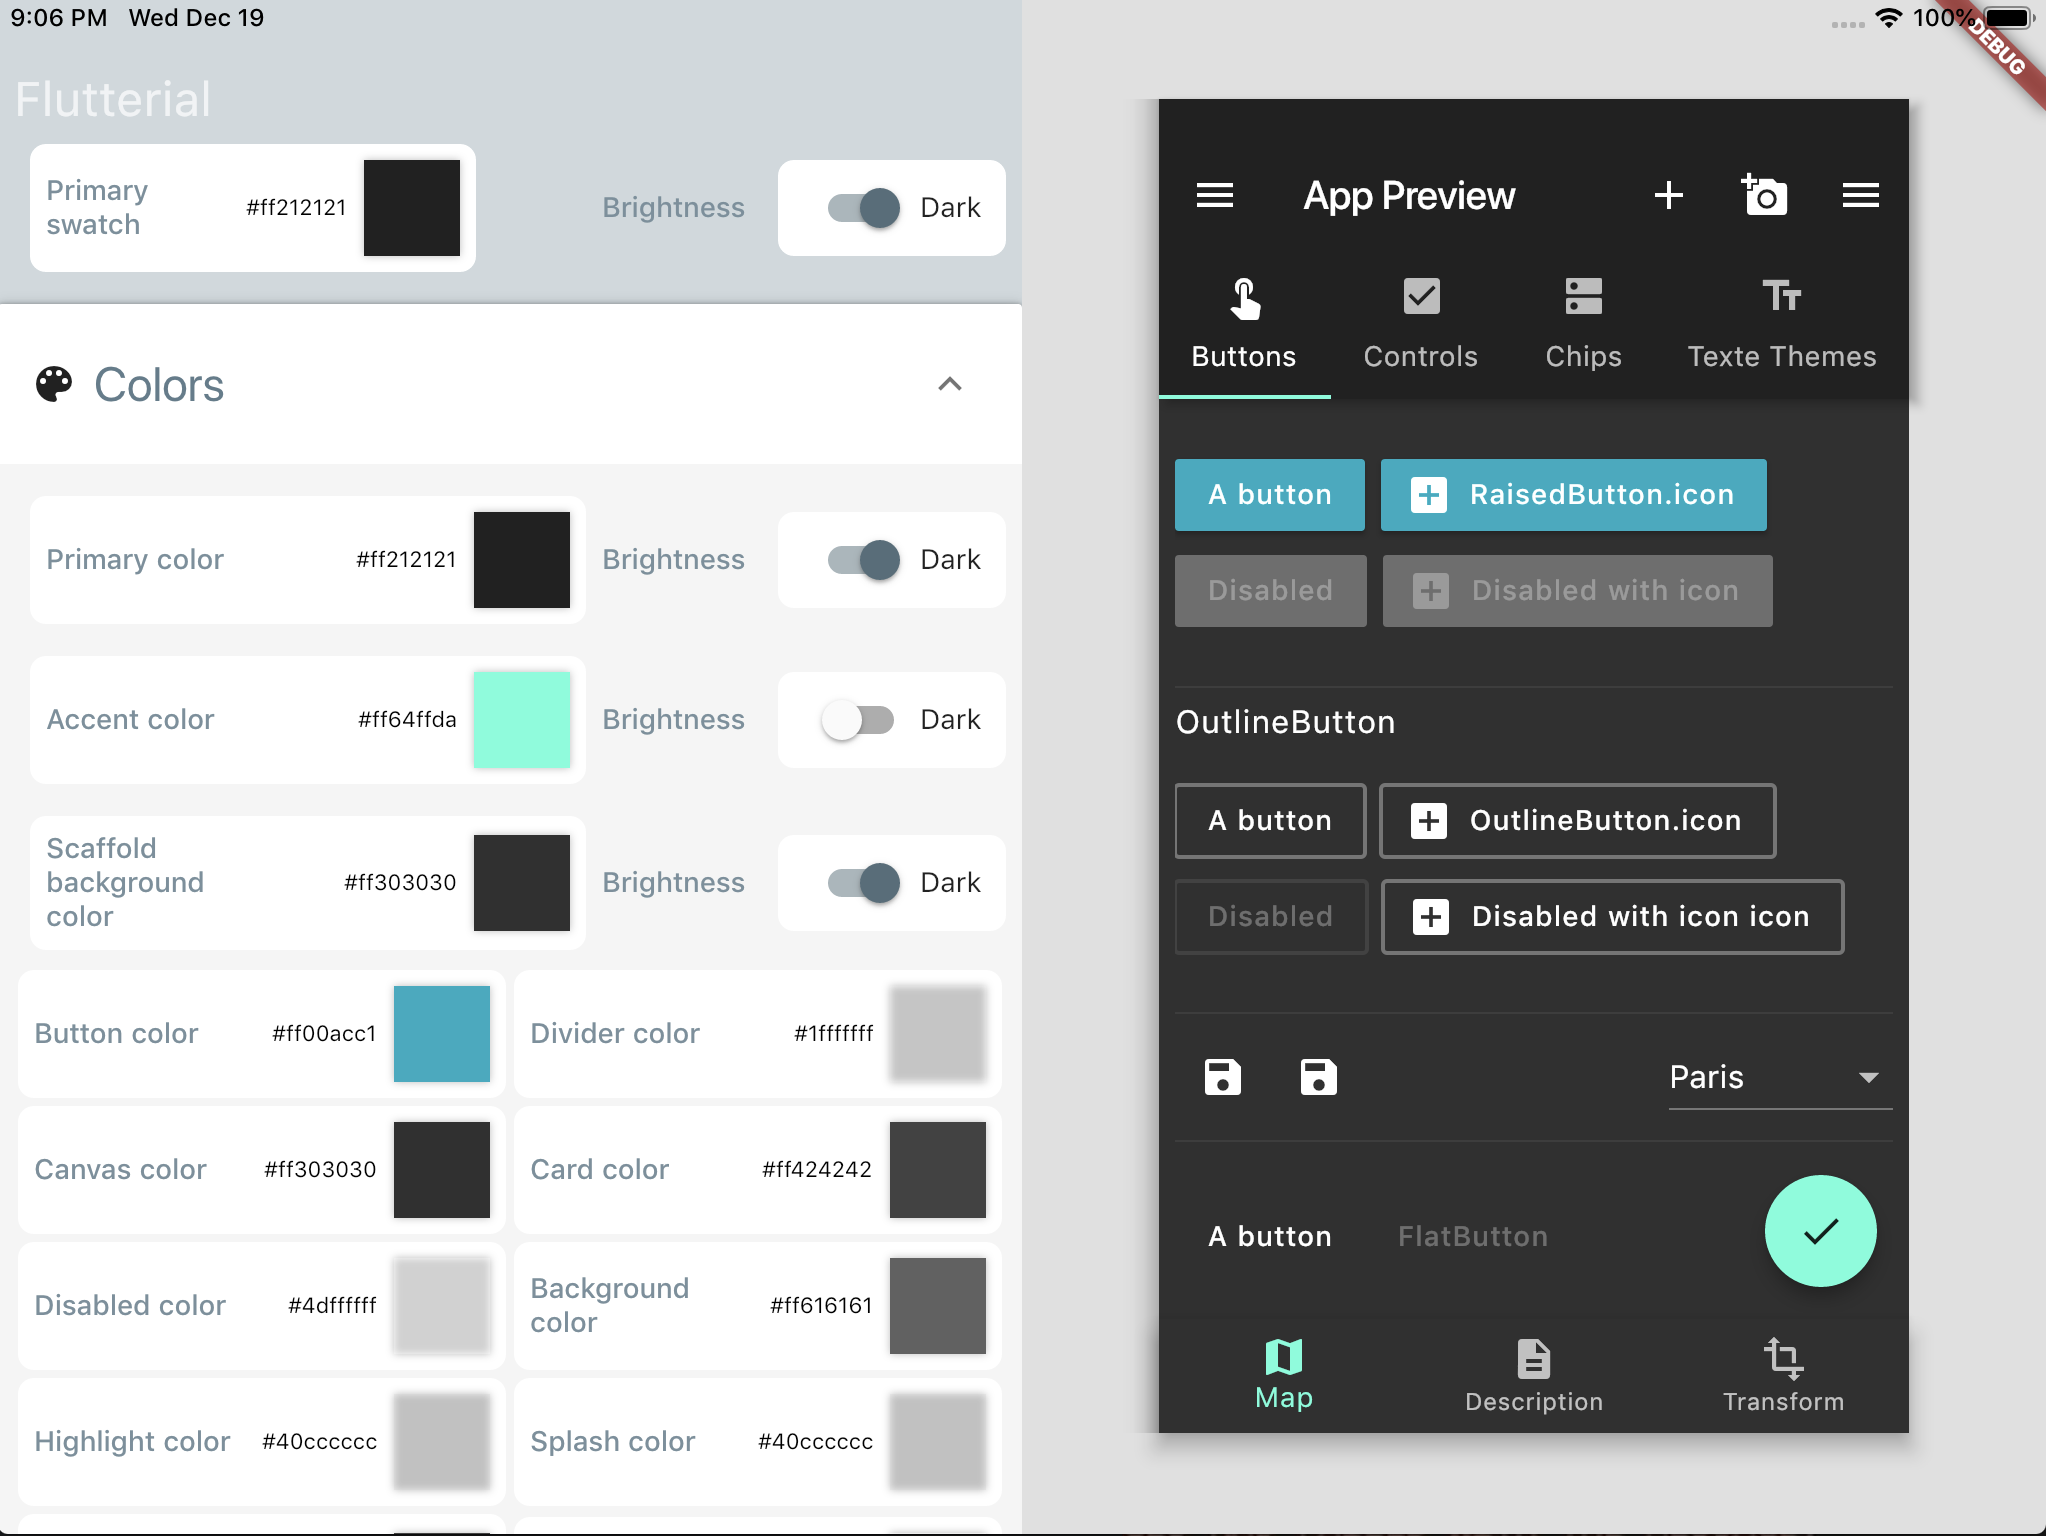
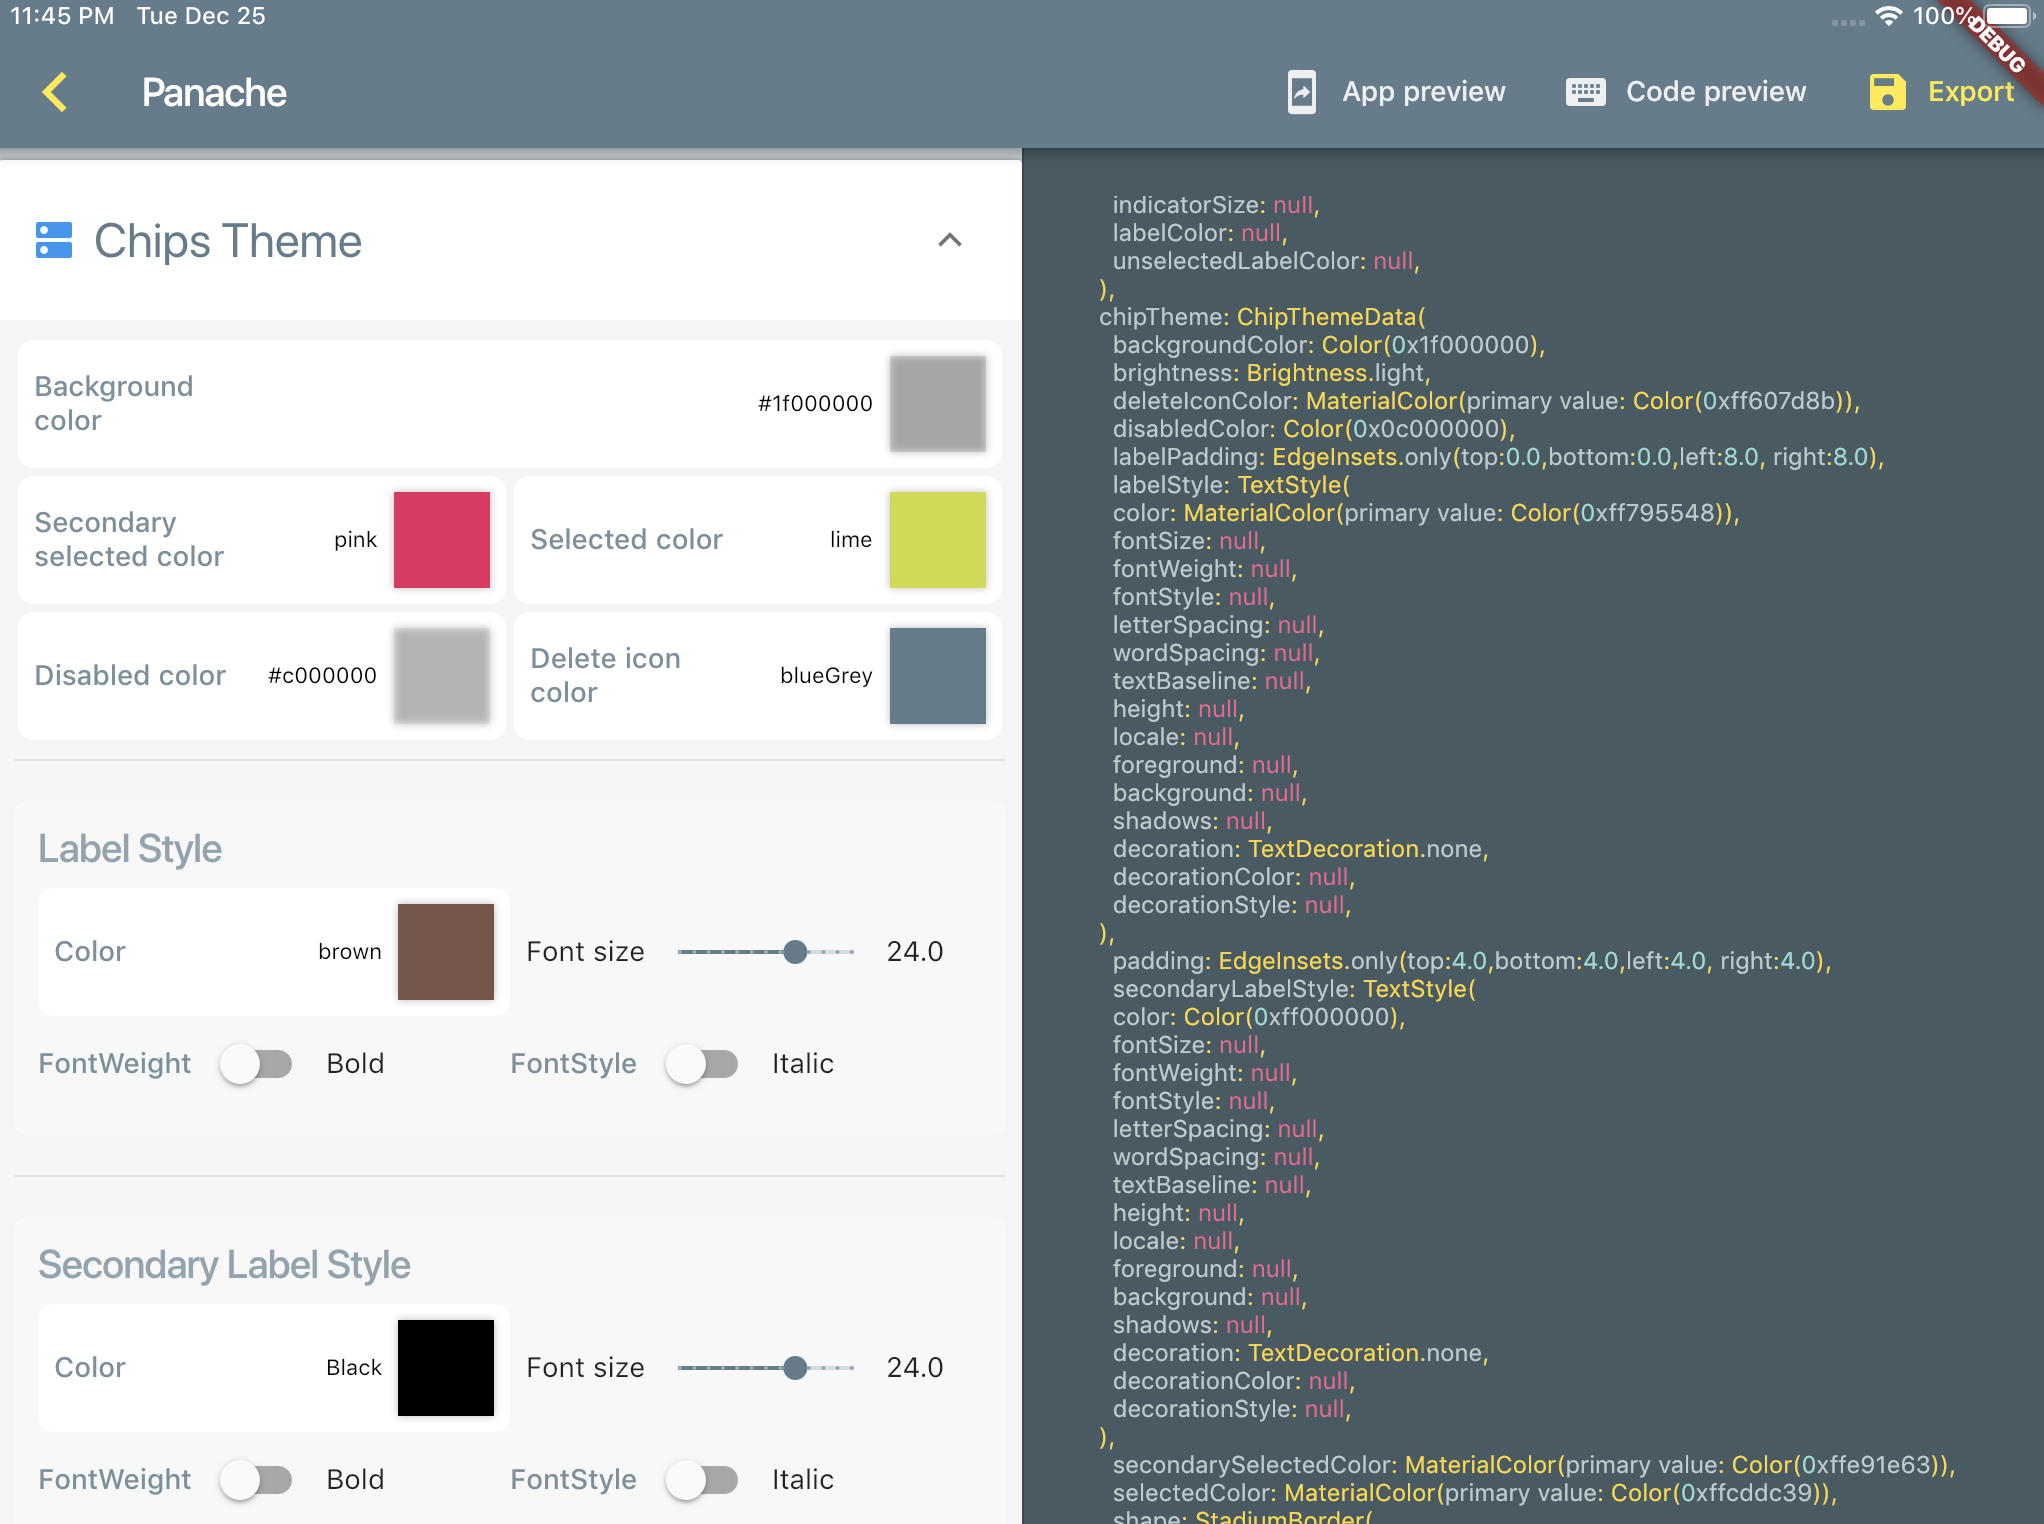
App theme + multiple fixes & refactoring

diff --git a/lib/flutterial.dart b/lib/flutterial.dart
@@ -22,20 +22,20 @@ class PanacheEditorScreenState extends State<PanacheEditorScreen> {
           title: Text('Panache'),
           actions: <Widget>[
             FlatButton.icon(
-              textColor: Colors.white,
+              textColor: Colors.blueGrey.shade50,
               icon: Icon(Icons.mobile_screen_share),
               label: Text('App preview'),
               onPressed: () => setState(() => showCode = false),
             ),
             FlatButton.icon(
-              textColor: Colors.white,
+              textColor: Colors.blueGrey.shade50,
               icon: Icon(Icons.keyboard),
               label: Text('Code preview'),
               onPressed: () => setState(() => showCode = true),
             ),
             FlatButton.icon(
                 onPressed: model.exportTheme,
-                textColor: Colors.white,
+                textColor: Colors.yellow,
                 icon: Icon(Icons.save),
                 label: Text('Export')),
           ],
@@ -44,7 +44,7 @@ class PanacheEditorScreenState extends State<PanacheEditorScreen> {
           crossAxisAlignment: CrossAxisAlignment.start,
           children: [
             Expanded(child: ThemeEditor(model: model)),
-            AppPreviewContainer(kIPhone6, showCode: showCode),
+            AppPreviewContainer(kIPhone5, showCode: showCode),
           ],
         ),
       );

diff --git a/lib/main.dart b/lib/main.dart
@@ -1,6 +1,7 @@
 import 'package:flutter/material.dart';
 import 'package:flutter/widgets.dart';
 import 'package:flutterial_components/flutterial_components.dart';
+import 'package:path_provider/path_provider.dart';
 import 'package:scoped_model/scoped_model.dart';
 
 import 'flutterial.dart';
@@ -18,13 +19,14 @@ final _flutterialTheme = ThemeData.localize(
       headline:
           Typography.blackCupertino.headline.copyWith(color: primarySwatch),
     ),
-    pageTransitionsTheme: PageTransitionsTheme(),
+    primaryIconTheme: IconThemeData.fallback().copyWith(color: Colors.yellow),
   ),
   Typography.blackCupertino,
 );
 
-void main() {
-  final themeModel = ThemeModel(service: ThemeService());
+void main() async {
+  final appDir = await getApplicationDocumentsDirectory();
+  final themeModel = ThemeModel(service: ThemeService(dir: appDir));
 
   runApp(
     ScopedModel<ThemeModel>(
